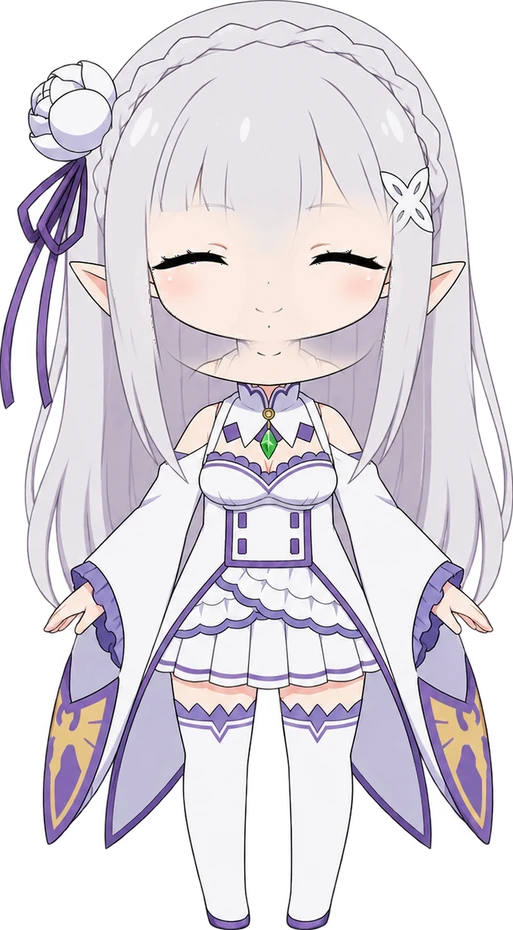
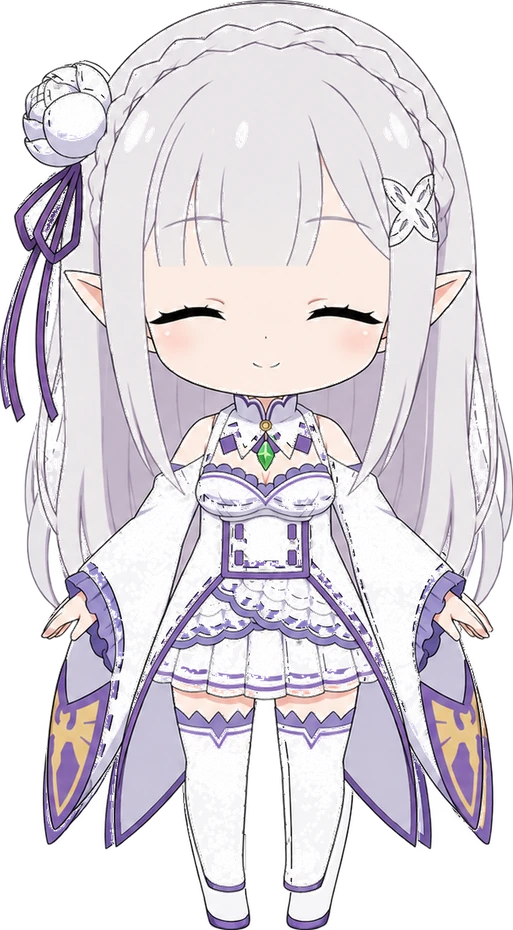
feat(pet): 闭眼帧改为按人物轮廓配准（忽略眉毛），恢复眨眼
- 以 alpha 轮廓 IoU 为目标做 (scale,dx,dy) 网格搜索：s=1.120 dx=4 dy=2，IoU 0.7135（此前按眉毛配准只有 0.64 且会拉变形）
- 闭眼帧 = 配准后的作者原图整帧（透明处用底图补洞），不再做局部贴片/皮肤化
- 眨眼恢复：0.65(90ms) → 1.0(到300ms) → 睁，交叉溶解
- v=20261030m / codeVer 20261030.12

diff --git a/source/js/pet.js b/source/js/pet.js
@@ -33,8 +33,8 @@
   var bubbleTimer = null, lastPath = null, raf = 0;
 
   /* ---------- 伪 2.5D：整卡透视倾斜 ---------- */
-  var ASSET_V = '?v=20261030k';
-  var PET_VER = '20261030.11';   // 内容指纹：改素材必须同步改这里，否则 CDN 7 天缓存不会更新
+  var ASSET_V = '?v=20261030m';
+  var PET_VER = '20261030.12';   // 内容指纹：改素材必须同步改这里，否则 CDN 7 天缓存不会更新
   var SPRITE_HALF_1X = '/images/pet/front_half_310.webp' + ASSET_V;
   var SPRITE_HALF_2X = '/images/pet/front_half_620.webp' + ASSET_V;
   var SPRITE_HALF_3X = '/images/pet/front_half_930.webp' + ASSET_V;
@@ -214,7 +214,7 @@
 
 
   /* ---------- 眨眼：两帧换图（闭眼帧已预载，切换无闪烁） ---------- */
-  var BLINK_ON = false;   // 暂时关闭：闭眼帧尚未与原画像素级对齐，开启会产生错位/白边
+  var BLINK_ON = true;   // 暂时关闭：闭眼帧尚未与原画像素级对齐，开启会产生错位/白边
   var blinkTimer = null, blinkOn = false, closedEl = null, halfEl = null;
 
   function setClosed(on) {
